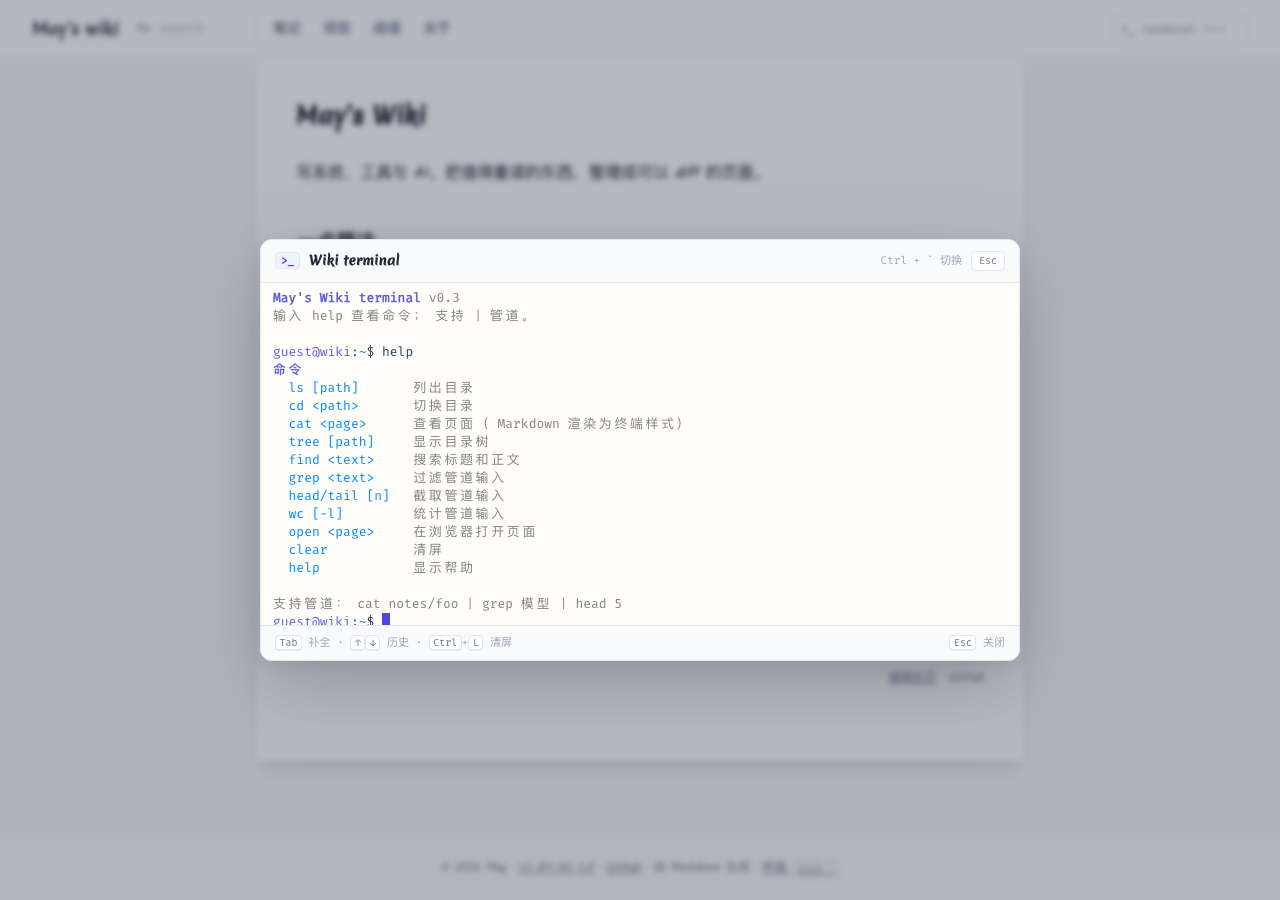
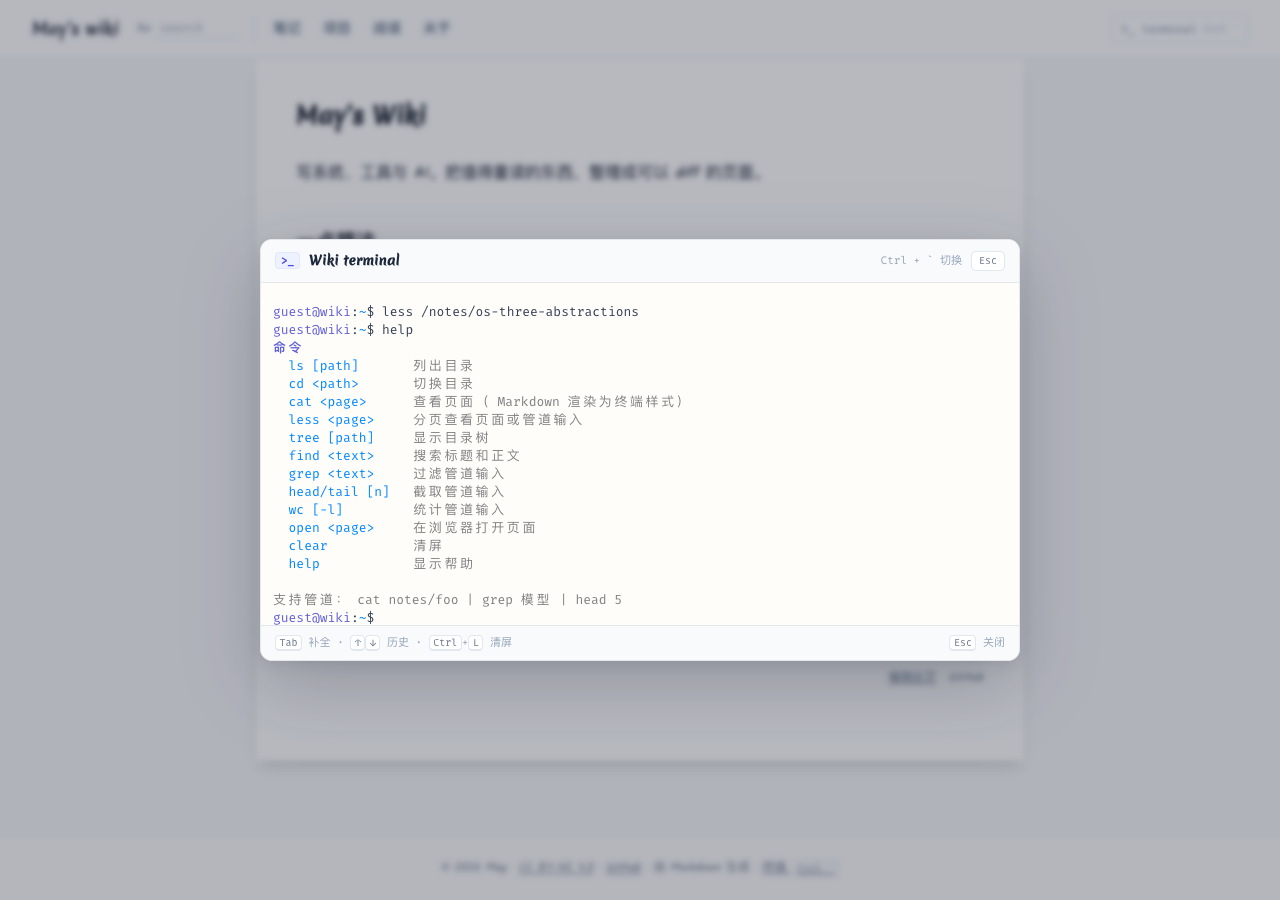
Add less/more pager to the terminal

Changed region(s): [[0.2188, 0.3111, 0.5312, 0.7156], [0.375, 0.6533, 0.4688, 0.6844]]

diff --git a/src/terminal/main.js b/src/terminal/main.js
@@ -285,6 +285,7 @@ function init() {
   let historyIndex = 0;
   let draft = '';
   let promptWidth = 0;
+  let pager = null;
 
   try {
     const stored = JSON.parse(localStorage.getItem('wiki-term-history') || '[]');
@@ -342,7 +343,7 @@ function init() {
           closeTerminal();
           return;
         }
-        if (result === 'navigate') return;
+        if (result === 'navigate' || result === 'pager') return;
         prompt();
       })
       .catch((error) => {
@@ -352,6 +353,10 @@ function init() {
   }
 
   function onData(data) {
+    if (pager) {
+      pagerKey(data);
+      return;
+    }
     switch (data) {
       case '\r':
       case '\n': {
@@ -493,6 +498,182 @@ function init() {
       buffer.slice(0, wordStart) + replacement + buffer.slice(cursor);
     cursor = wordStart + replacement.length;
     redraw();
+  }
+
+  // ---- pager -----------------------------------------------------------
+
+  function startPager(text, title) {
+    pager = {
+      title,
+      lines: String(text).replace(/\r\n/g, '\n').split('\n'),
+      offset: 0,
+    };
+    layoutPager();
+    write('\x1b[?1049h\x1b[?25l\x1b[2J\x1b[H');
+    renderPager();
+  }
+
+  function clipPlain(text, maxWidth) {
+    let out = '';
+    let width = 0;
+    for (const char of String(text)) {
+      const w = charWidth(char.codePointAt(0));
+      if (width + w > maxWidth) break;
+      out += char;
+      width += w;
+    }
+    return out + ' '.repeat(Math.max(0, maxWidth - width));
+  }
+
+  function wrapAnsi(text, width) {
+    const rows = [];
+    let current = '';
+    let used = 0;
+    let active = '';
+    let index = 0;
+    while (index < text.length) {
+      if (text[index] === '\x1b') {
+        const rest = text.slice(index);
+        const match = rest.match(
+          /^\x1b(?:\[[0-?]*[ -/]*[@-~]|\][^\x07]*(?:\x07|\x1b\\))/,
+        );
+        if (match) {
+          const sequence = match[0];
+          current += sequence;
+          if (/^\x1b\[[0-9;]*m$/.test(sequence)) {
+            if (sequence === '\x1b[0m' || sequence === '\x1b[m') active = '';
+            else active += sequence;
+          }
+          index += sequence.length;
+          continue;
+        }
+      }
+      const code = text.codePointAt(index);
+      const char = String.fromCodePoint(code);
+      const charWidthValue = charWidth(code);
+      if (used + charWidthValue > width) {
+        rows.push(`${current}\x1b]8;;\x1b\\\x1b[0m`);
+        current = active;
+        used = 0;
+      }
+      current += char;
+      used += charWidthValue;
+      index += char.length;
+    }
+    rows.push(`${current}\x1b]8;;\x1b\\\x1b[0m`);
+    return rows;
+  }
+
+  function layoutPager() {
+    if (!pager) return;
+    const cols = term.cols || 80;
+    pager.display = pager.lines.flatMap((line) => wrapAnsi(line, cols));
+  }
+
+  function clipAnsi(text, maxWidth) {
+    let out = '';
+    let width = 0;
+    let index = 0;
+    while (index < text.length) {
+      if (text[index] === '\x1b') {
+        const rest = text.slice(index);
+        const match = rest.match(
+          /^\x1b(?:\[[0-?]*[ -/]*[@-~]|\][^\x07]*(?:\x07|\x1b\\))/,
+        );
+        if (match) {
+          out += match[0];
+          index += match[0].length;
+          continue;
+        }
+      }
+      const code = text.codePointAt(index);
+      const char = String.fromCodePoint(code);
+      const w = charWidth(code);
+      if (width + w > maxWidth) break;
+      out += char;
+      width += w;
+      index += char.length;
+    }
+    return out + '\x1b]8;;\x1b\\\x1b[0m';
+  }
+
+  function renderPager() {
+    if (!pager) return;
+    layoutPager();
+    const rows = term.rows || 24;
+    const cols = term.cols || 80;
+    const pageHeight = Math.max(1, rows - 1);
+    const maxOffset = Math.max(0, pager.display.length - 1);
+    pager.offset = Math.max(0, Math.min(pager.offset, maxOffset));
+
+    let out = '\x1b[2J';
+    for (let row = 1; row <= pageHeight; row += 1) {
+      const line = pager.display[pager.offset + row - 1] || '';
+      out += `\x1b[${row};1H${clipAnsi(line, cols)}`;
+    }
+    const last = Math.min(pager.display.length, pager.offset + pageHeight);
+    const status = ` ${pager.title}  ${pager.offset + 1}-${last}/${pager.display.length}  q 退出 · ↓/Space 下一页 · ↑/b 上一页 · g/G 首尾 `;
+    out += `\x1b[${rows};1H\x1b[7m${clipPlain(status, cols)}\x1b[0m`;
+    term.write(out);
+  }
+
+  function pagerKey(data) {
+    if (!pager) return;
+    const pageHeight = Math.max(1, (term.rows || 24) - 1);
+    switch (data) {
+      case 'q':
+      case 'Q':
+      case '\x1b':
+      case '\x03':
+        exitPager();
+        return;
+      case 'j':
+      case '\x1b[B':
+      case '\x1bOB':
+        pager.offset += 1;
+        renderPager();
+        return;
+      case 'k':
+      case '\x1b[A':
+      case '\x1bOA':
+        pager.offset -= 1;
+        renderPager();
+        return;
+      case ' ':
+      case '\x1b[6~':
+      case '\x04':
+        pager.offset += pageHeight;
+        renderPager();
+        return;
+      case 'b':
+      case '\x1b[5~':
+      case '\x15':
+        pager.offset -= pageHeight;
+        renderPager();
+        return;
+      case 'g':
+      case '\x1b[H':
+      case '\x1bOH':
+        pager.offset = 0;
+        renderPager();
+        return;
+      case 'G':
+      case '\x1b[F':
+      case '\x1bOF':
+        pager.offset = Math.max(0, (pager.display?.length || pager.lines.length) - pageHeight);
+        renderPager();
+        return;
+      default:
+        return;
+    }
+  }
+
+  function exitPager() {
+    if (!pager) return;
+    pager = null;
+    write('\x1b[?1049l\x1b[?25h');
+    resetLine();
+    prompt();
   }
 
   // ---- commands --------------------------------------------------------
@@ -703,6 +884,7 @@ function init() {
       ['ls [path]', '列出目录'],
       ['cd <path>', '切换目录'],
       ['cat <page>', '查看页面（Markdown 渲染为终端样式）'],
+      ['less <page>', '分页查看页面或管道输入'],
       ['tree [path]', '显示目录树'],
       ['find <text>', '搜索标题和正文'],
       ['grep <text>', '过滤管道输入'],
@@ -735,6 +917,25 @@ function init() {
   async function run(argv, stdin, last) {
     const [name, ...args] = argv;
     switch (name) {
+      case 'less':
+      case 'more': {
+        let text = stdin;
+        let title = 'stdin';
+        if (!text && args[0]) {
+          const page = pageFor(args[0]);
+          if (!page) {
+            return { output: `${COLOR.error}less: no such page${RESET}\n` };
+          }
+          text = renderMarkdown(page.markdown, page, term.cols);
+          title = page.title;
+        }
+        if (!text) {
+          return { output: `${COLOR.error}less: empty input${RESET}\n` };
+        }
+        if (!last) return { output: text };
+        startPager(text, title);
+        return { pager: true };
+      }
       case 'ls':
         return { output: cmdLs(args) };
       case 'cd':
@@ -804,6 +1005,7 @@ function init() {
       const result = await run(argv, stdin, isLast);
       if (result.navigate) return 'navigate';
       if (result.close) return 'close';
+      if (result.pager) return 'pager';
       if (result.clear) {
         term.write('\x1b[2J\x1b[3J\x1b[H');
         return 'ok';
@@ -877,6 +1079,7 @@ function init() {
     term.onData(onData);
     term.attachCustomKeyEventHandler((event) => {
       if (event.type === 'keydown' && event.key === 'Escape') {
+        if (pager) return true;
         closeTerminal();
         return false;
       }
@@ -894,6 +1097,7 @@ function init() {
     } catch {
       /* not visible yet */
     }
+    if (pager) renderPager();
   }
 
   function openTerminal() {
@@ -928,6 +1132,10 @@ function init() {
 
   function closeTerminal() {
     if (modal.hidden) return;
+    if (pager) {
+      pager = null;
+      write('\x1b[?1049l\x1b[?25h');
+    }
     modal.classList.remove('is-open');
     document.body.classList.remove('terminal-open');
     term?.blur();
@@ -965,6 +1173,7 @@ function init() {
         return;
       }
       if (event.key === 'Escape' && !modal.hidden) {
+        if (pager) return;
         event.preventDefault();
         event.stopPropagation();
         closeTerminal();

diff --git a/README.md b/README.md
@@ -32,11 +32,12 @@ $ ls
 $ cd projects/ai-infra-study
 $ cat week-by-week
 $ cat notes/context-engineering | grep 上下文
+$ less notes/os-three-abstractions
 $ find 上下文
 $ open roadmap
 ```
 
-`cat` 会把 Markdown 渲染成终端样式；`grep` / `head` / `tail` / `wc` 可以接在管道后面。支持 `Tab` 补全路径、`↑` / `↓` 翻历史、`Ctrl+L` 清屏。文件系统在构建时由 `content/` 生成，新增页面会自动出现在终端里；历史记录保存在浏览器本地。
+`cat` 会把 Markdown 渲染成终端样式；`less` / `more` 支持分页（↑↓、Space、b、g/G、q）；`grep` / `head` / `tail` / `wc` 可以接在管道后面。支持 `Tab` 补全路径、`↑` / `↓` 翻历史、`Ctrl+L` 清屏。文件系统在构建时由 `content/` 生成，新增页面会自动出现在终端里；历史记录保存在浏览器本地。
 
 ![终端](docs/terminal.png)
 
